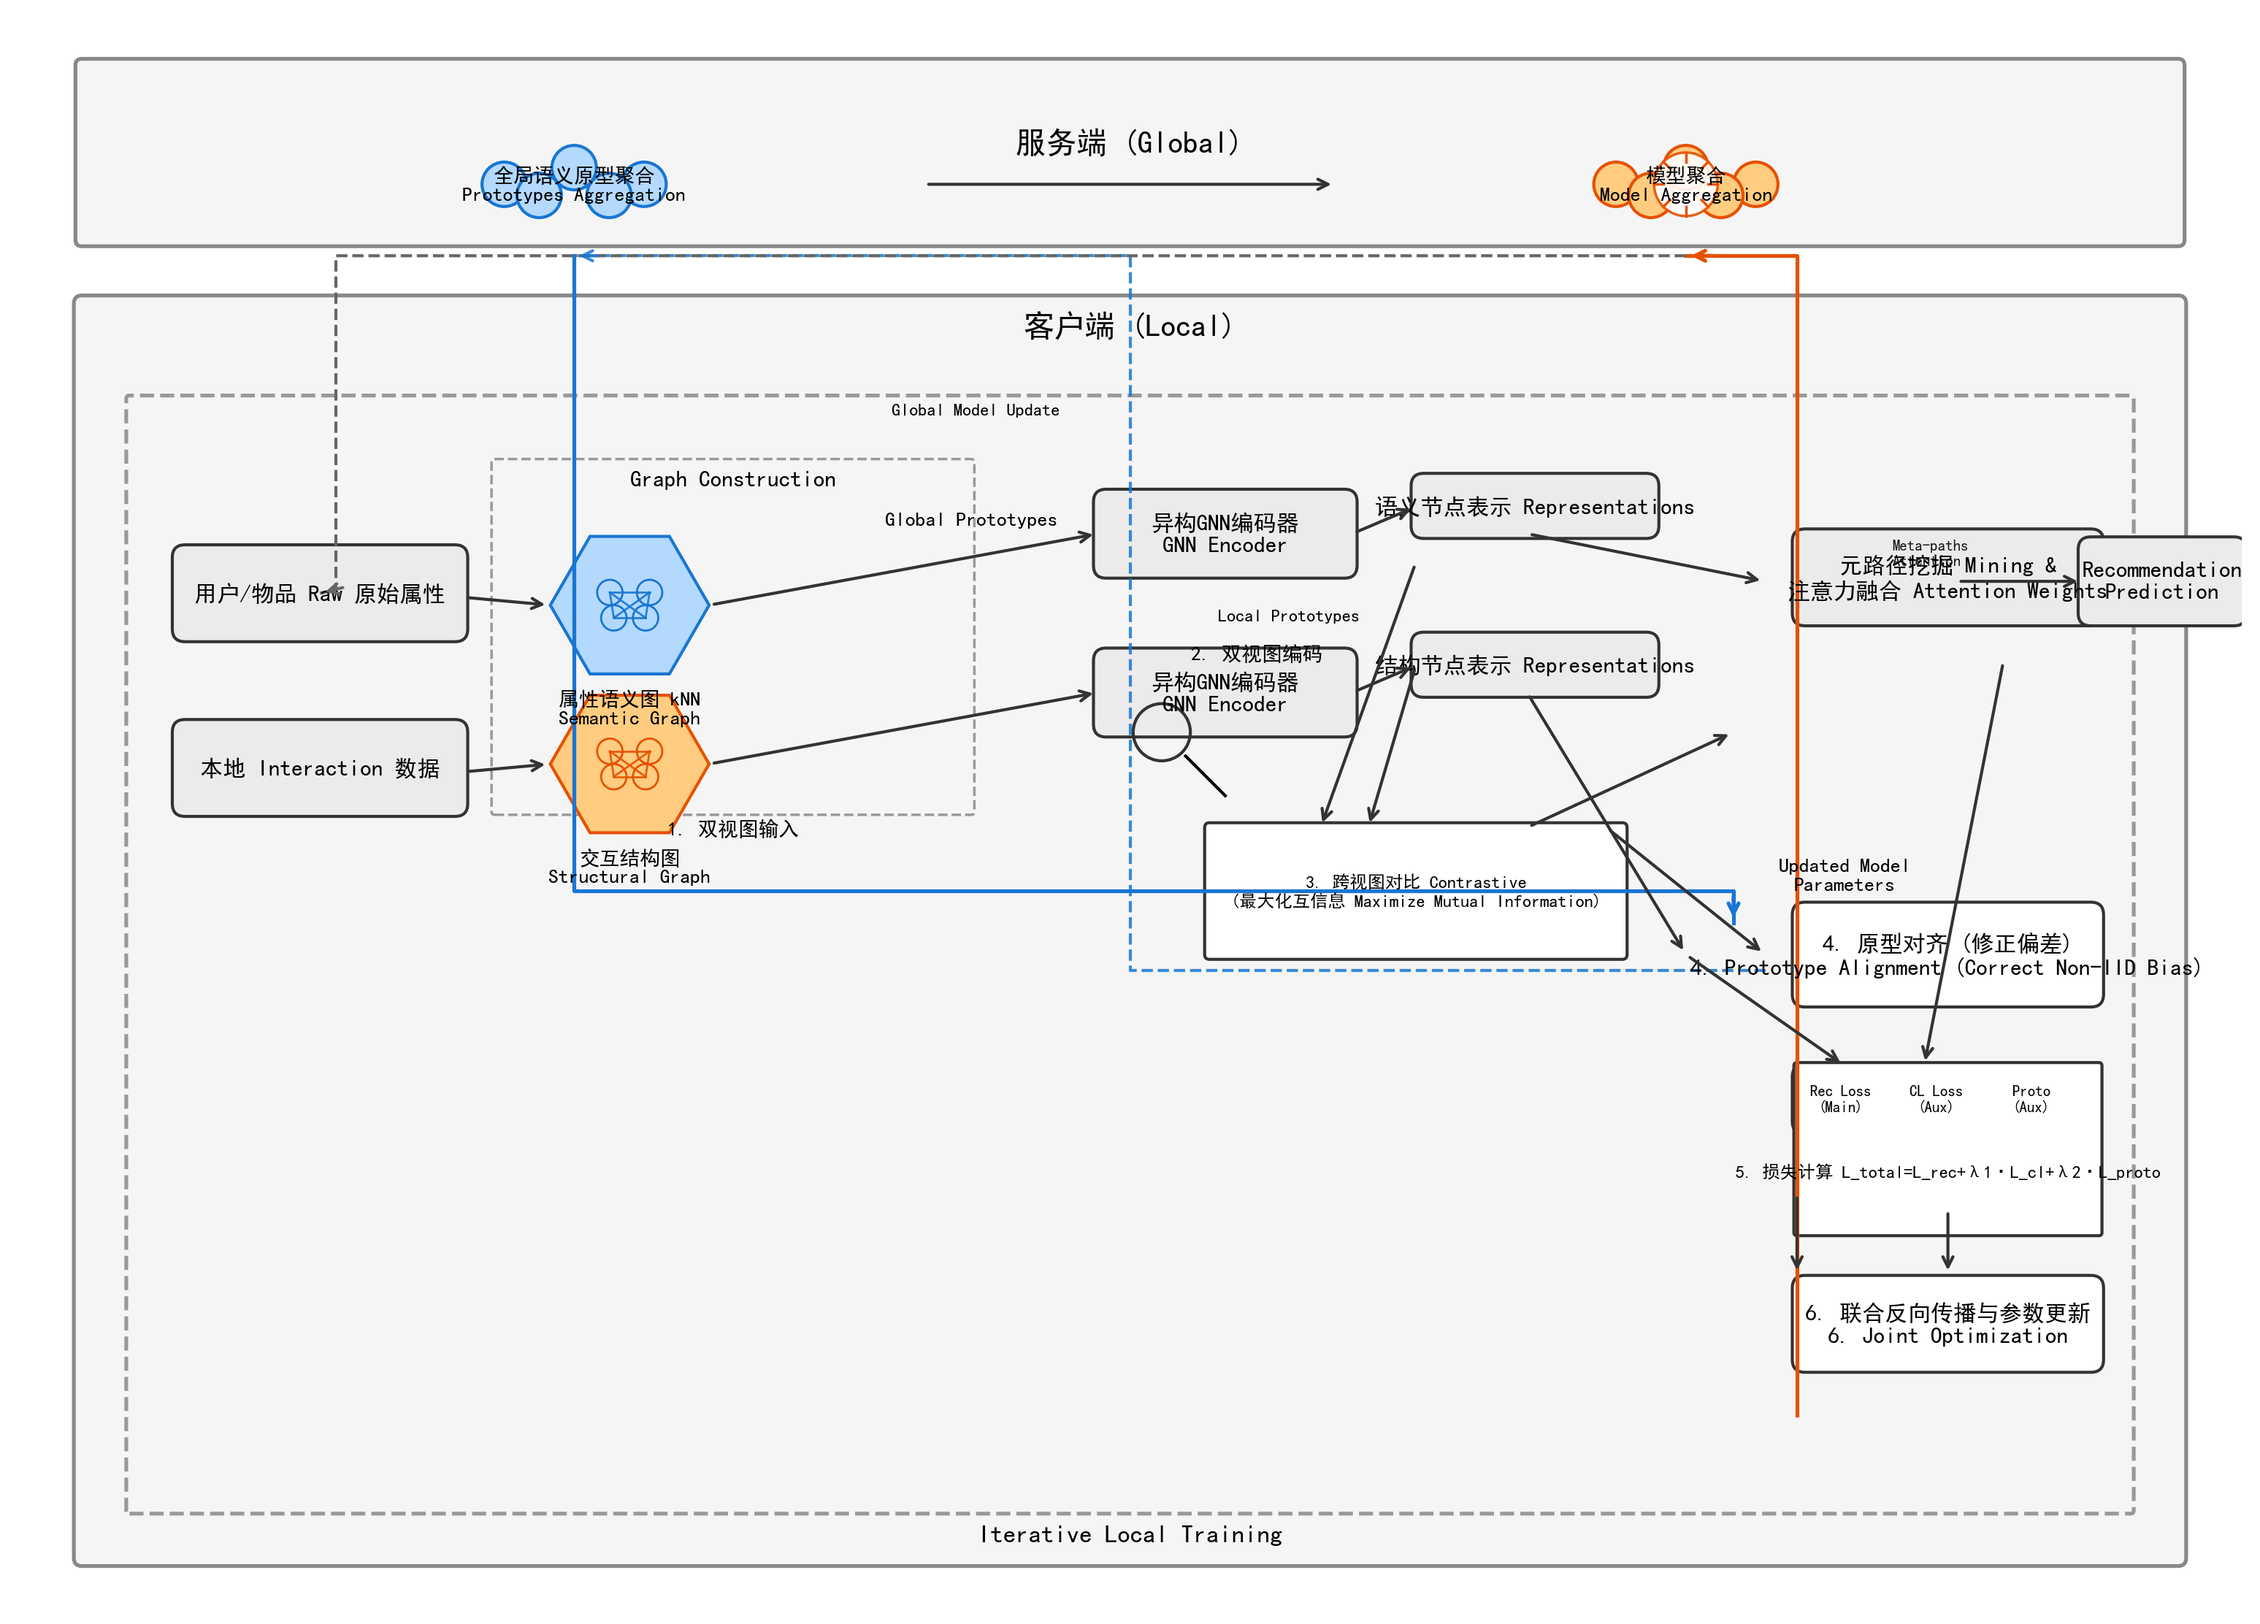
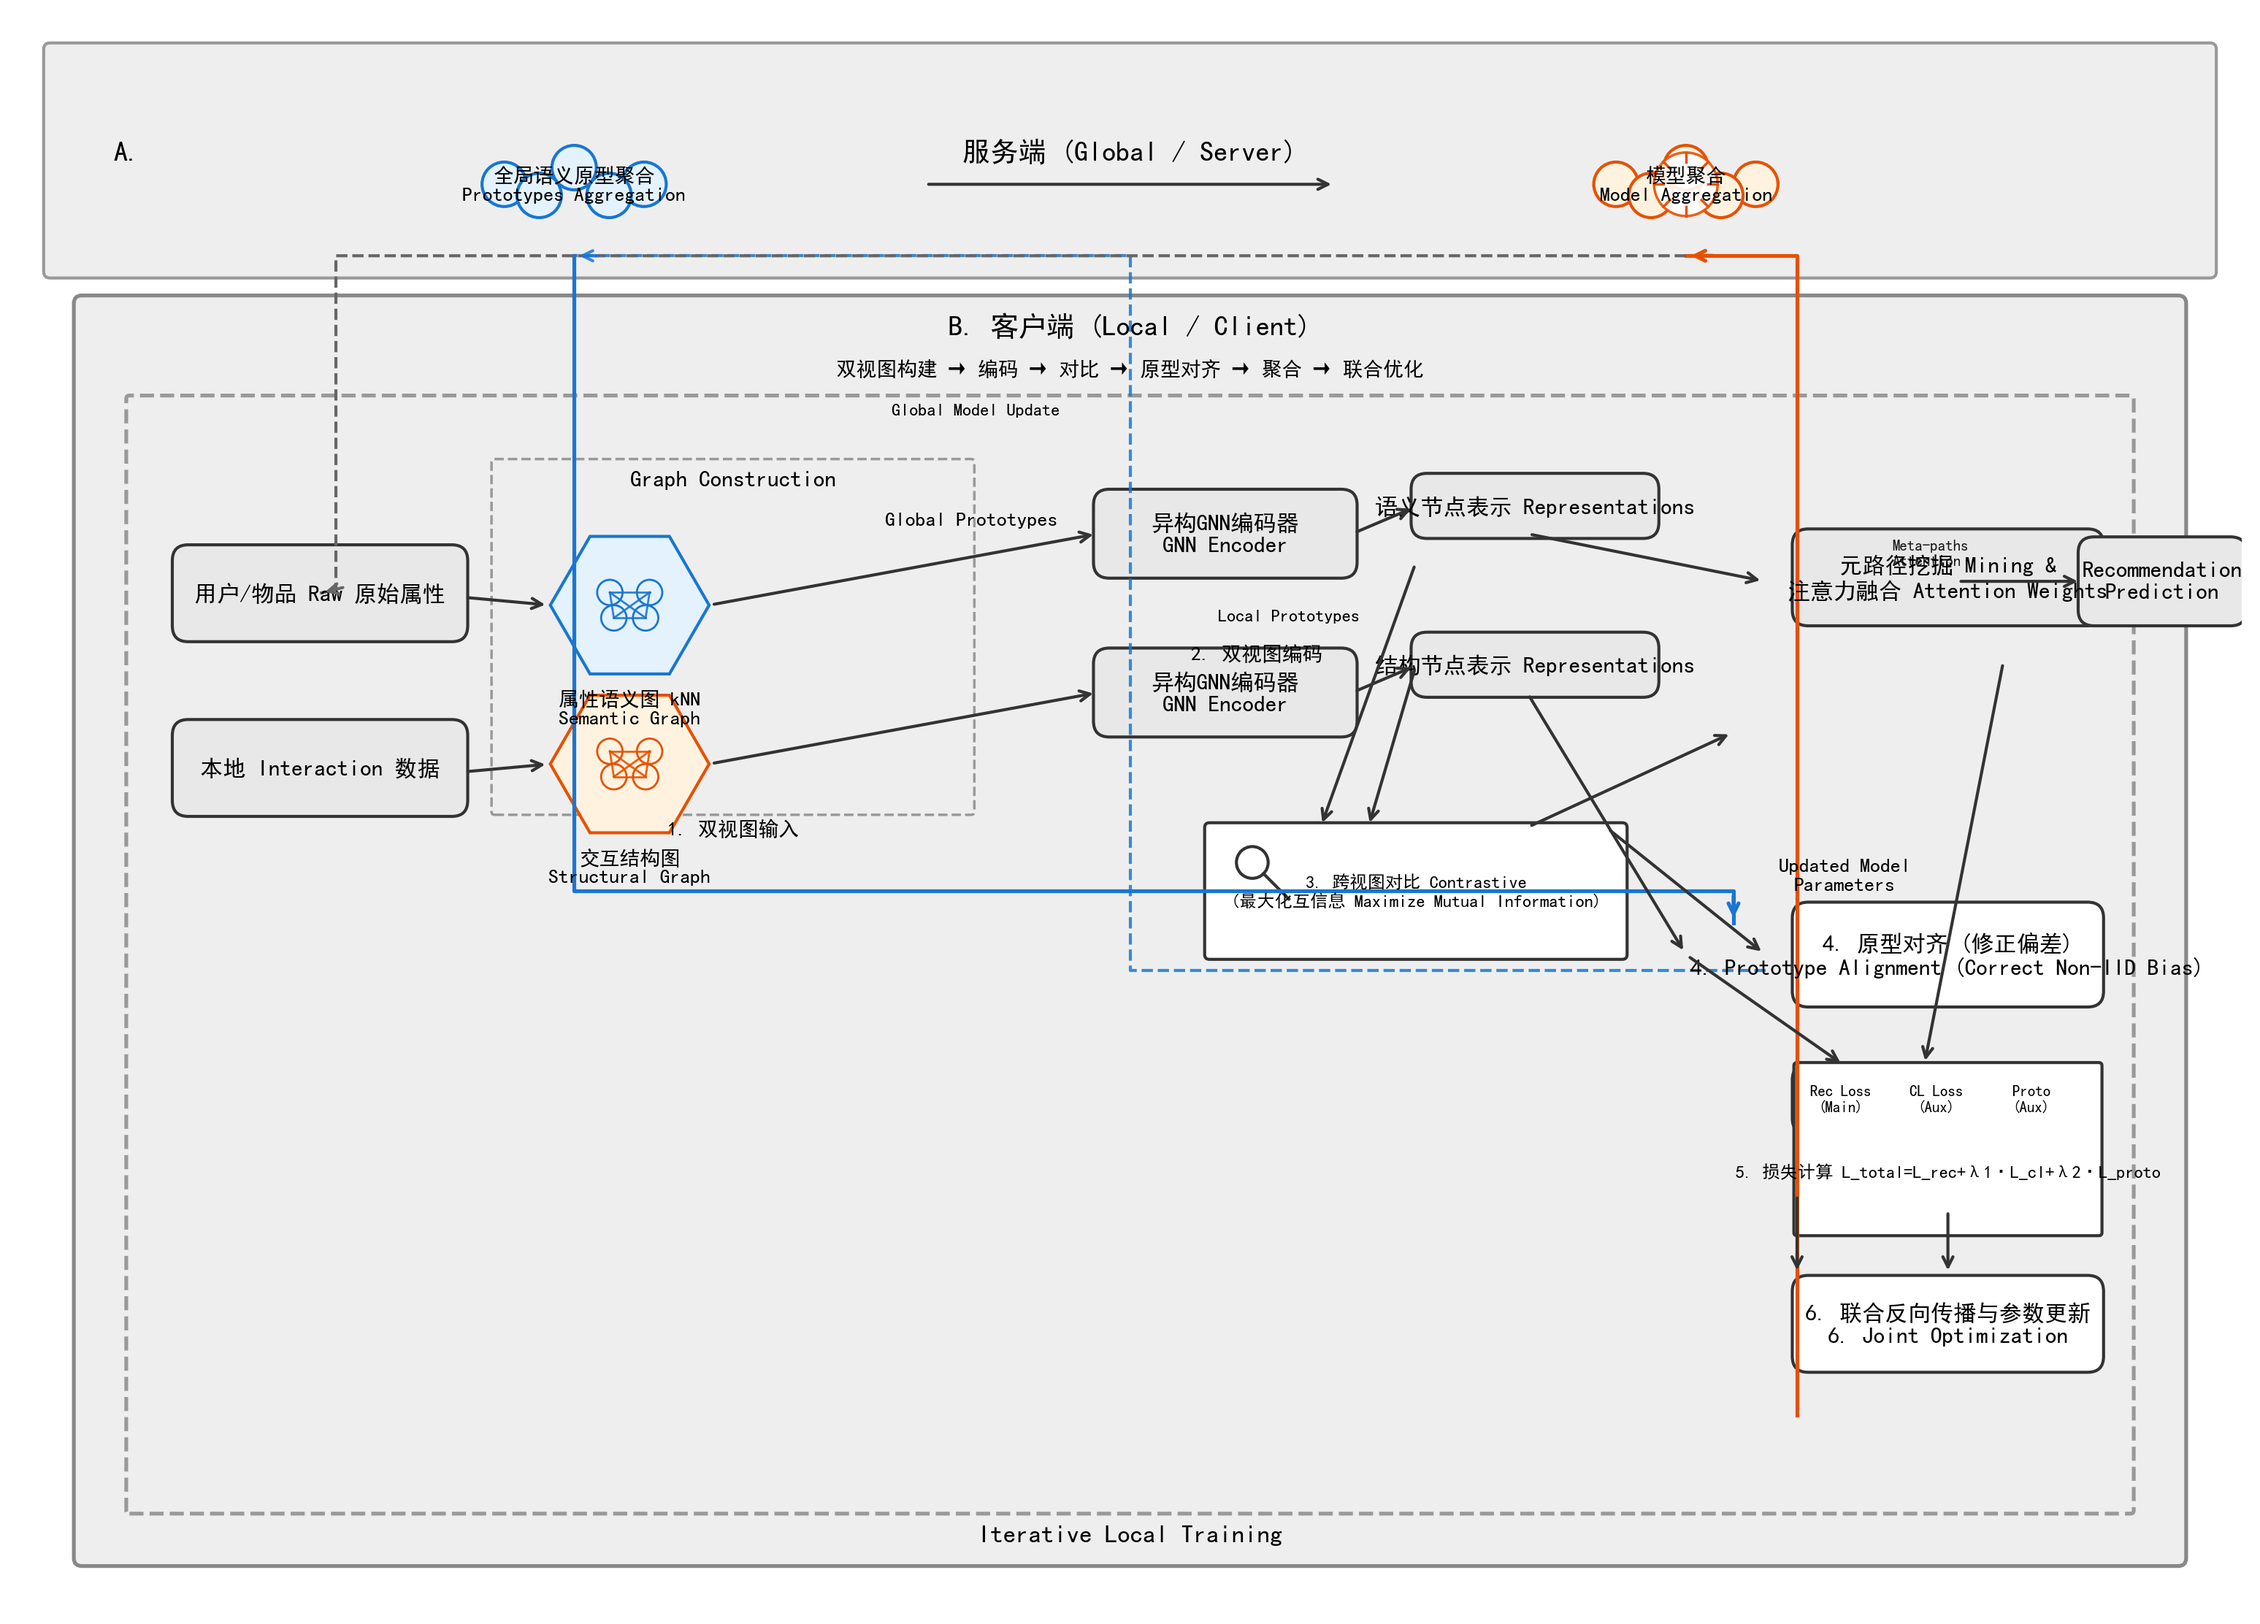
更新论文图片: fedascl_framework 及绘图说明
Made-with: Cursor

diff --git a/images/prompts_图11重绘图12风格.md b/images/prompts_图11重绘图12风格.md
@@ -1,0 +1,95 @@
+# 图11（FedASCL总体架构）按图12风格重绘 — Prompts
+
+## 一、风格参考（图12：属性语义图构建流程）
+
+图12的核心风格特征：
+- **布局**：横向流程，三大块（A/B/C）从左到右，用虚线分隔
+- **形状**：矩形框表示过程/数据，椭圆框表示算法/概念
+- **配色**：白底、浅蓝/浅橙/浅绿区分模块，公式框为灰白
+- **线条**：折线箭头，无曲线，直角转折
+- **文字**：中英双语标签，公式清晰排版
+- **装饰**：云形标注说明特殊条件，小图标表示概念（用户、物品等）
+
+---
+
+## 二、主 Prompt（用于 AI 绘图 / 设计师）
+
+```
+请以「属性语义图构建流程示意图」的绘图风格，重新绘制「FedASCL算法总体架构示意图」。
+
+【风格要求】
+- 布局：横向流程图，分区清晰，用虚线框划分服务端、客户端
+- 形状：过程用矩形，算法/聚合模块用圆角矩形或椭圆
+- 线条：全部为折线箭头（直角转折），禁止曲线
+- 配色：白底，浅灰分区背景，蓝/橙区分不同模块，与参考图一致
+- 文字：中英双语，公式简洁
+
+【内容要求 - 六步流程】
+1. 双视图构建：用户/物品原始属性 → 属性语义图；本地交互数据 → 交互结构图
+2. 双视图编码：两个 GNN 编码器 → 语义节点表示、结构节点表示
+3. 跨视图对比：两表示 → 对比学习模块（最大化互信息）
+4. 原型对齐：结构表示 + 全局原型下传 → 原型对齐模块
+5. 模型聚合与更新：服务端两模块（全局语义原型聚合、模型聚合）
+6. 联合优化与推荐：元路径挖掘 → 推荐预测 → 损失计算 → 联合优化
+
+【端云箭头】
+- Global Prototypes：服务端蓝云 → 客户端原型对齐
+- Updated Model Parameters：客户端联合优化 → 服务端橙云
+- Local Prototypes：原型对齐 → 服务端蓝云（虚线）
+- Global Model Update：服务端橙云 → 客户端原始属性输入（虚线）
+
+【图标】
+- 服务端：蓝云（原型聚合）、橙云+齿轮（模型聚合）
+- 客户端：六边形表示属性语义图、交互结构图，放大镜表示对比学习
+```
+
+---
+
+## 三、分步 Prompt（用于分块绘制）
+
+### 1. 布局与分区
+```
+绘制 FedASCL 架构图，采用与「属性语义图构建」相同的版面：
+- 顶部：服务端区域（浅灰背景，虚线框），内含蓝云、橙云两模块
+- 中部：客户端主流程（虚线框「Iterative Local Training」）
+- 左右横向流动，模块间用折线箭头连接
+```
+
+### 2. 模块与样式
+```
+- 输入/数据框：灰色圆角矩形
+- 算法框（GNN、对比、原型对齐）：白色矩形，带边框
+- 图结构模块：六边形，蓝/橙填充
+- 服务端云形：多圆叠加的云形，蓝/橙配色
+- 模型聚合：橙云 + 内部齿轮图标
+```
+
+### 3. 线条与箭头
+```
+- 所有连接线：折线（polyline），直角转折
+- 实线：主要数据流
+- 虚线：原型上传、Global Model 下传
+- 箭头：标准实心三角
+```
+
+---
+
+## 四、Python/Matplotlib 实现提示
+
+若要由 `draw_fedascl_framework.py` 实现图12风格，可调整：
+- `figsize` 改为更宽的横向比例（如 16×8）
+- 增加分区虚线框 `FancyBboxPatch(..., linestyle='--')`
+- 模块用 `round,pad` 圆角，算法模块可改用椭圆 `Ellipse`
+- 统一 `polyline_arrow` 折线，禁止 `arc3` 曲线
+- 配色与图12一致：`#e3f2fd`（蓝）、`#fff3e0`（橙）、`#e8f5e9`（绿）
+
+---
+
+## 五、快速 Checklist
+
+- [ ] 横向流程，左→右
+- [ ] 折线箭头，无曲线
+- [ ] 中英双语标签
+- [ ] 浅灰分区 + 蓝/橙模块色
+- [ ] 六步流程与端云箭头完整
+- [ ] 云形、齿轮、六边形、放大镜图标
